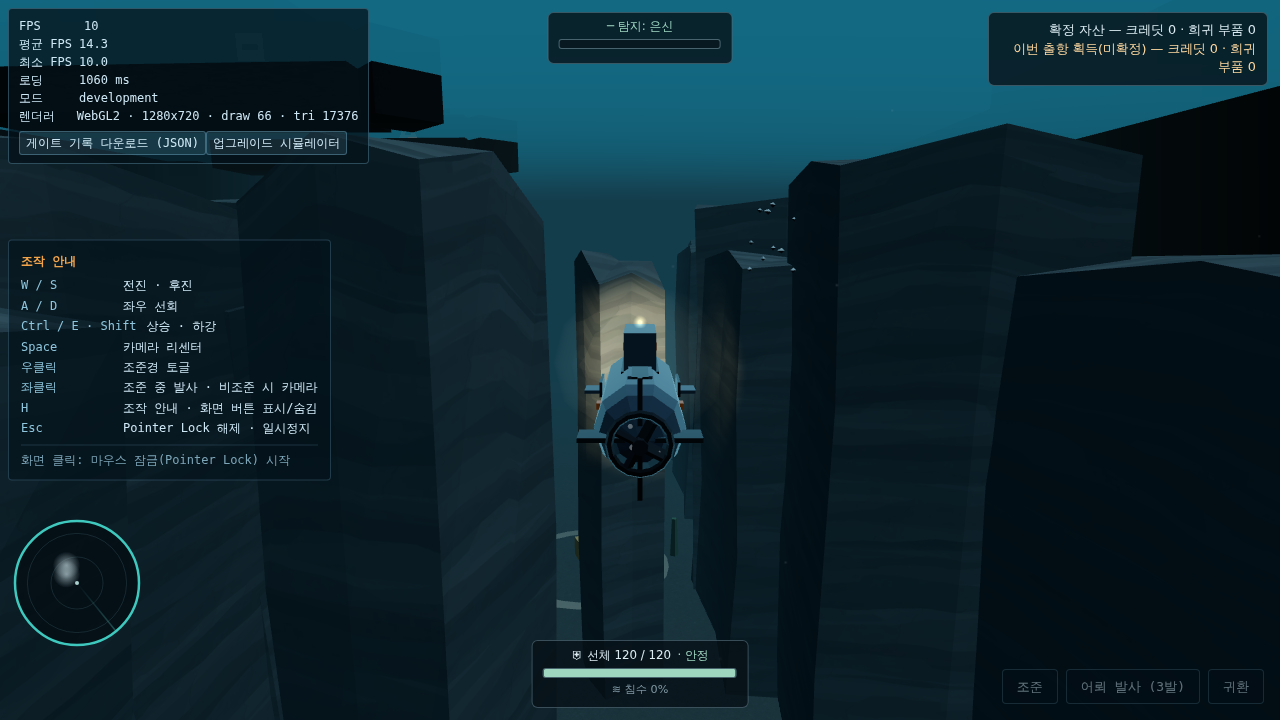
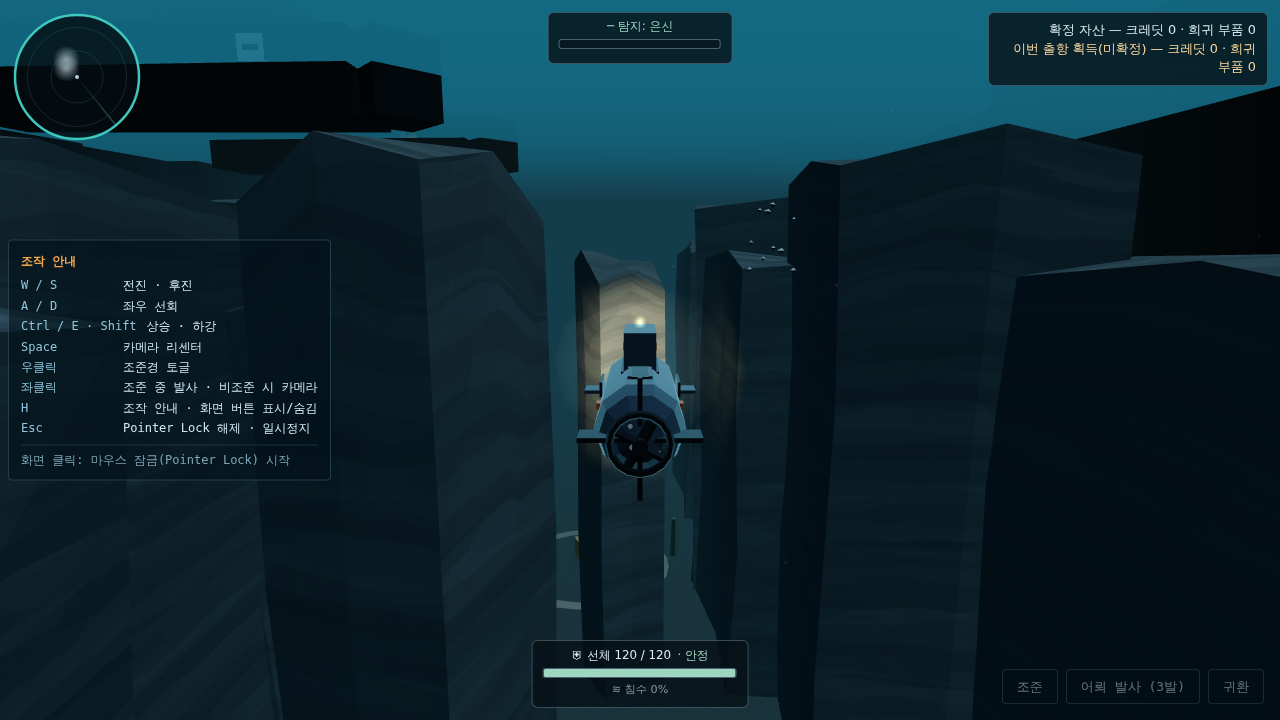
fix: [M2] 소나 스코프 좌상단 배치 — 16차 결의 규격 정합
16·17차 회의록 아카이브 수신 후 정합: 스코프 위치는 좌측 상단이 정본
(16차 — 함내 계기판 다이제틱, 상단 텍스트 바 폐지 전제). production에서
좌상단 구석은 비어 있어 겹침 없음 — dev 전용 성능 오버레이·QA 배지와의
겹침은 개발 모드 한정. production 프리뷰 실측: 18.0% 높이·좌상단(12,12)·
조작 안내 비겹침·오류 0.

Claude-Session: https://claude.ai/code/session_01Q4WjK1kNkLGWtRSBcP4dgu

diff --git a/src/render/SonarScope.ts b/src/render/SonarScope.ts
@@ -60,12 +60,13 @@ export class SonarScope {
   constructor(host: HTMLElement) {
     this.rootElement = document.createElement('div');
     this.rootElement.setAttribute('data-render-sonar-scope', '');
-    // 좌측 배치 — 상단은 조작 안내·성능 오버레이·fixture 배지가 차지하므로
-    // 하단 모서리를 쓴다 (침수 HUD는 중앙 하단, 버튼은 우하단 — 충돌 없음)
+    // 좌측 상단 (16차 결의 — 함내 계기판 다이제틱, 화면 높이 18% 이하).
+    // production에서 이 구석은 비어 있다 — 조작 안내(약 33vh~)와 겹치지 않고,
+    // dev 전용 성능 오버레이·QA 배지와의 겹침은 개발 모드 한정이다.
     this.rootElement.style.cssText = [
       'position:absolute',
       'left:0.75rem',
-      'bottom:4.5rem',
+      'top:0.75rem',
       // 화면 높이 18% 이하 (연출값 소유: sonarScope.sizeViewportHeightRatio)
       `width:${SCOPE.sizeViewportHeightRatio * 100}vh`,
       `height:${SCOPE.sizeViewportHeightRatio * 100}vh`,

diff --git a/docs/CURRENT_STATUS.md b/docs/CURRENT_STATUS.md
@@ -494,7 +494,7 @@ B 선행개발          = 가능 (선행개발 상태로만)
 - **차단 문제:** 게임플레이 B 판정 미구현 — `ShipIdentificationSource`·B6 소스 부재로 production 태그·호위 표시는 0건(가짜 데이터 없음), 경비 스폰은 위치 전략·AI 팩토리 미연결로 차단. 표시 규칙은 fixture(`?bdemo=1`) UI 단위 검증으로만 확인됨
 - **변경된 계약:** 없음 (`src/contracts/*` 미수정 — BaseScreenPort v2·officialParams 소비만). 조립부·게임플레이 최소 변경 2건은 INT-RENDER-010 ⑤ 확인 요청
 - **통합 주의사항:** 조준경은 `aimModeChanged`만 소비(홀드→토글 개편에도 렌더 무변경). 어뢰 소비 인터페이스(`TorpedoStateSource`)는 StraightRunTorpedoSystem이 구조적 충족. 환경 밀도는 renderVisualParams.environment가 상한 — 보스 전장 데코는 '추가'가 아니라 '이동'(11차 결의 1). 반투명 renderOrder 서열: 블롭1<X-ray2<수면3=기포3<폭발4<보조선5. 신규 모듈 전부 dispose 일괄 관리(geometry·material·InstancedMesh). **자기 선체 layer 1은 조준 카메라 전용 규약 — 다른 시스템이 layer 1을 쓰면 조준 중 함께 사라진다.** 출항 진입점은 기지 화면 출항 버튼(BaseScreenPort.launchSortie) 하나 — HUD `launchSortie` 재주입·자동 출항 재도입 금지(INT-RENDER-009 ③). **게임은 기지(BASE)에서 시작한다** — 해역 전제 검증·테스트는 출항 버튼 클릭을 선행해야 한다(verify-hud 도입부 참조). z-index 서열: 준비 화면 25 < 조준경 30 < 재화 HUD 32 < HUD 버튼 90. QA 플래그: `?xray` `?shipdemo` `?lookup` `?bossSpike=1(&bossMotion=b)` `?base=1` `?tiers=h,w` `?aimdemo=1` `?econdemo=1|savefail` `?quality=low`(저사양 연출 축소). 반투명 renderOrder 3층에 부유물·항법등 글로우 추가(수면·기포와 동층 — 폭발4·보조선5 아래). 보조 환경광은 HemisphereLight — AmbientLight 재도입 시 예산 초과 주의
-- **완료(추가): [M0~M2 그래픽스]** ① **M0 GPU 실측 준비**: `docs/measurements/M0_gpu_baseline.md` — 측정 절차(3품질×3시나리오)·실기기 표(**미실측 공란 — 수치 미작성 원칙**)·정적 예산·swiftshader 참고치(GPU 아님 명시)·보스 전장 밀도 기준선(§E — M1 레이아웃 대기). **실기기 실측은 이 환경(원격 컨테이너, swiftshader 전용)에서 불가 — 빌드·툴 담당과 목표 노트북 2대 확보 시 수행** ② **소나 스코프**(`SonarScope.ts` — M2 최소 시각 소비자): 좌하단 원형 다이제틱 계기(화면 높이 18.0% 실측), 기존 정본만 소비 — DetectionHudView(테두리 황·unwired 빗금+'계기 미연결')·TrackingStateSource(attack→적)·noiseChanged(자기 소음 그레인·링)·ShipWorldSource(패시브 소음원 방위·번짐 — 세력 미표시, B2 조기 노출 방지). 액티브 핑은 `SonarPingSource` 미주입=미표시(INT-RENDER-014). 캔버스 15Hz 상한·WebGL 드로우 0. BASE에서 숨김 ③ **보스 5상태 표현**(M1 최소 시각 소비자): notifyWeakpointHit(백-주황 플래시+스케일 펄스)/notifyNormalHit(짧은 회청 플래시)/단계 전환(색+**전신 진폭 서지+백색 플래시** — low 품질 색 단독 의존 없음)/약점 활성·비활성 — 전부 통지 기반(판정 계산 0), `?bossSpike=1` 검수 키 6/7 ④ 분절 스파이크는 M0 tip에서 정상 유영 재확인(4인 위협감 판정 대기·B안 전환 준비 유지)
+- **완료(추가): [M0~M2 그래픽스]** ① **M0 GPU 실측 준비**: `docs/measurements/M0_gpu_baseline.md` — 측정 절차(3품질×3시나리오)·실기기 표(**미실측 공란 — 수치 미작성 원칙**)·정적 예산·swiftshader 참고치(GPU 아님 명시)·보스 전장 밀도 기준선(§E — M1 레이아웃 대기). **실기기 실측은 이 환경(원격 컨테이너, swiftshader 전용)에서 불가 — 빌드·툴 담당과 목표 노트북 2대 확보 시 수행** ② **소나 스코프**(`SonarScope.ts` — M2 최소 시각 소비자): 좌상단 원형 다이제틱 계기(16차 결의 — 화면 높이 18.0% 실측), 기존 정본만 소비 — DetectionHudView(테두리 황·unwired 빗금+'계기 미연결')·TrackingStateSource(attack→적)·noiseChanged(자기 소음 그레인·링)·ShipWorldSource(패시브 소음원 방위·번짐 — 세력 미표시, B2 조기 노출 방지). 액티브 핑은 `SonarPingSource` 미주입=미표시(INT-RENDER-014). 캔버스 15Hz 상한·WebGL 드로우 0. BASE에서 숨김 ③ **보스 5상태 표현**(M1 최소 시각 소비자): notifyWeakpointHit(백-주황 플래시+스케일 펄스)/notifyNormalHit(짧은 회청 플래시)/단계 전환(색+**전신 진폭 서지+백색 플래시** — low 품질 색 단독 의존 없음)/약점 활성·비활성 — 전부 통지 기반(판정 계산 0), `?bossSpike=1` 검수 키 6/7 ④ 분절 스파이크는 M0 tip에서 정상 유영 재확인(4인 위협감 판정 대기·B안 전환 준비 유지)
 - **마지막 업데이트:** **origin/dev(7eb8d5c — C 런타임 마감) 병합 + 통합 재검증 완료** (feat/render `a542730`). 자동: gameplay 242/242·meta 128/128·tooling 26/26·hud 34/34·sprint-a/b·sprint-c 23/23(C9 17필드 확정). 브라우저 생존 루프 실측 완주: 뇌격→경비 스폰→발각→목표 심도 폭뢰 기폭(투하 11.98→기폭 목표 = 플레이어 심도 11.0)→near 침수(첫 severity 0.10 = 승인값)→침수 잠식 파괴(120→0)→실패 화면 confirm→BASE→재출항 reset(선체/침수/salvage/탐지 전부 초기화). 4개 심도 탐지 보정·품질 3단계·텍스처 404 fallback·콘솔 오류 0. INT-RENDER-013 조건부 승인 검증 조건 이행 — 상세는 INTEGRATION_NOTES INT-RENDER-013 표
 - **담당 브랜치:** `feat/render` (C 리드 계약 `d689628` 병합 기반)
 

diff --git a/src/render/README.md b/src/render/README.md
@@ -69,7 +69,7 @@
   충돌은 계약 blocks 그대로): 서브디비전 박스 + 위치 기반 결정적 변위
   (crack 없음), 기울어진 상단(아래 방향만)·잘린 모서리·층리 선반,
   변형 패밀리 4종, 시각 오차 ≤0.7m. 블록당 메시 1(드로우 불변)·재질 공유
-- `SonarScope.ts` — 좌하단 원형 다이제틱 소나 스코프 (2D 캔버스, 화면 높이
+- `SonarScope.ts` — 좌상단 원형 다이제틱 소나 스코프 (16차 결의) (2D 캔버스, 화면 높이
   18% 이하, 리드로우 15Hz 상한): 기존 정본만 소비 — DetectionHudView(테두리
   황·미연결 빗금)·TrackingStateSource(공격태세 적)·noiseChanged(자기 소음)·
   ShipWorldSource(소음원 방위·번짐 — 세력 미표시). 액티브 핑은
